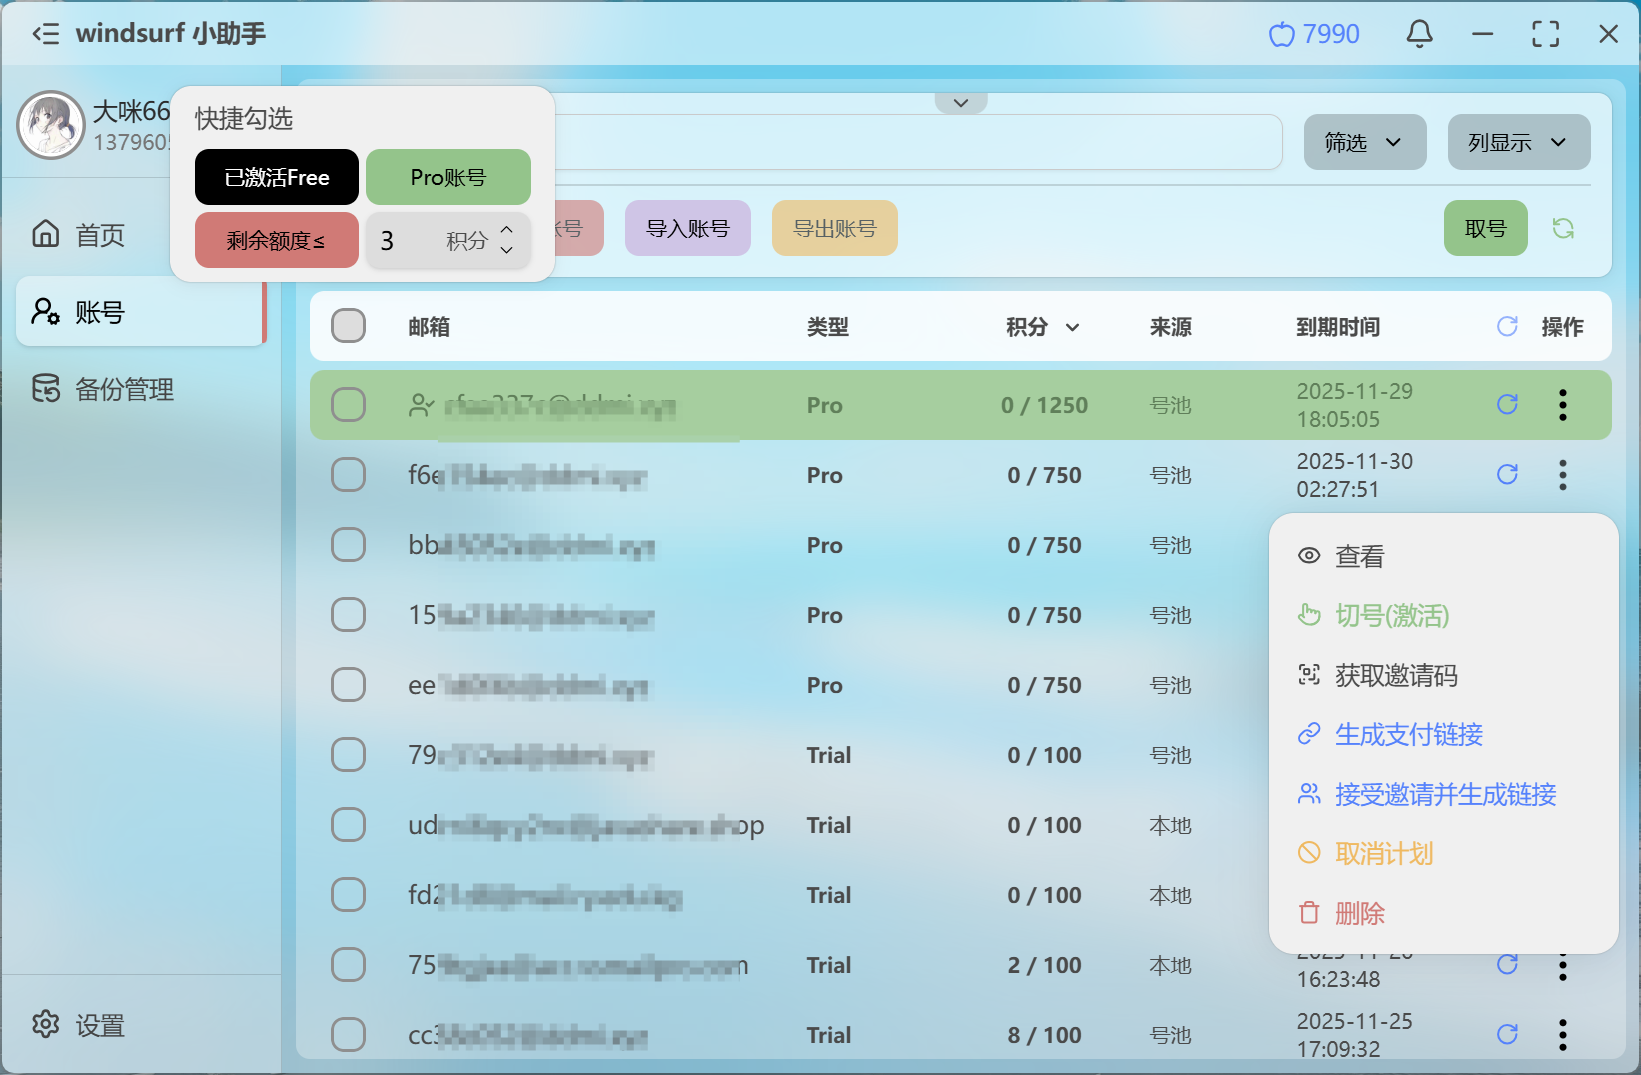
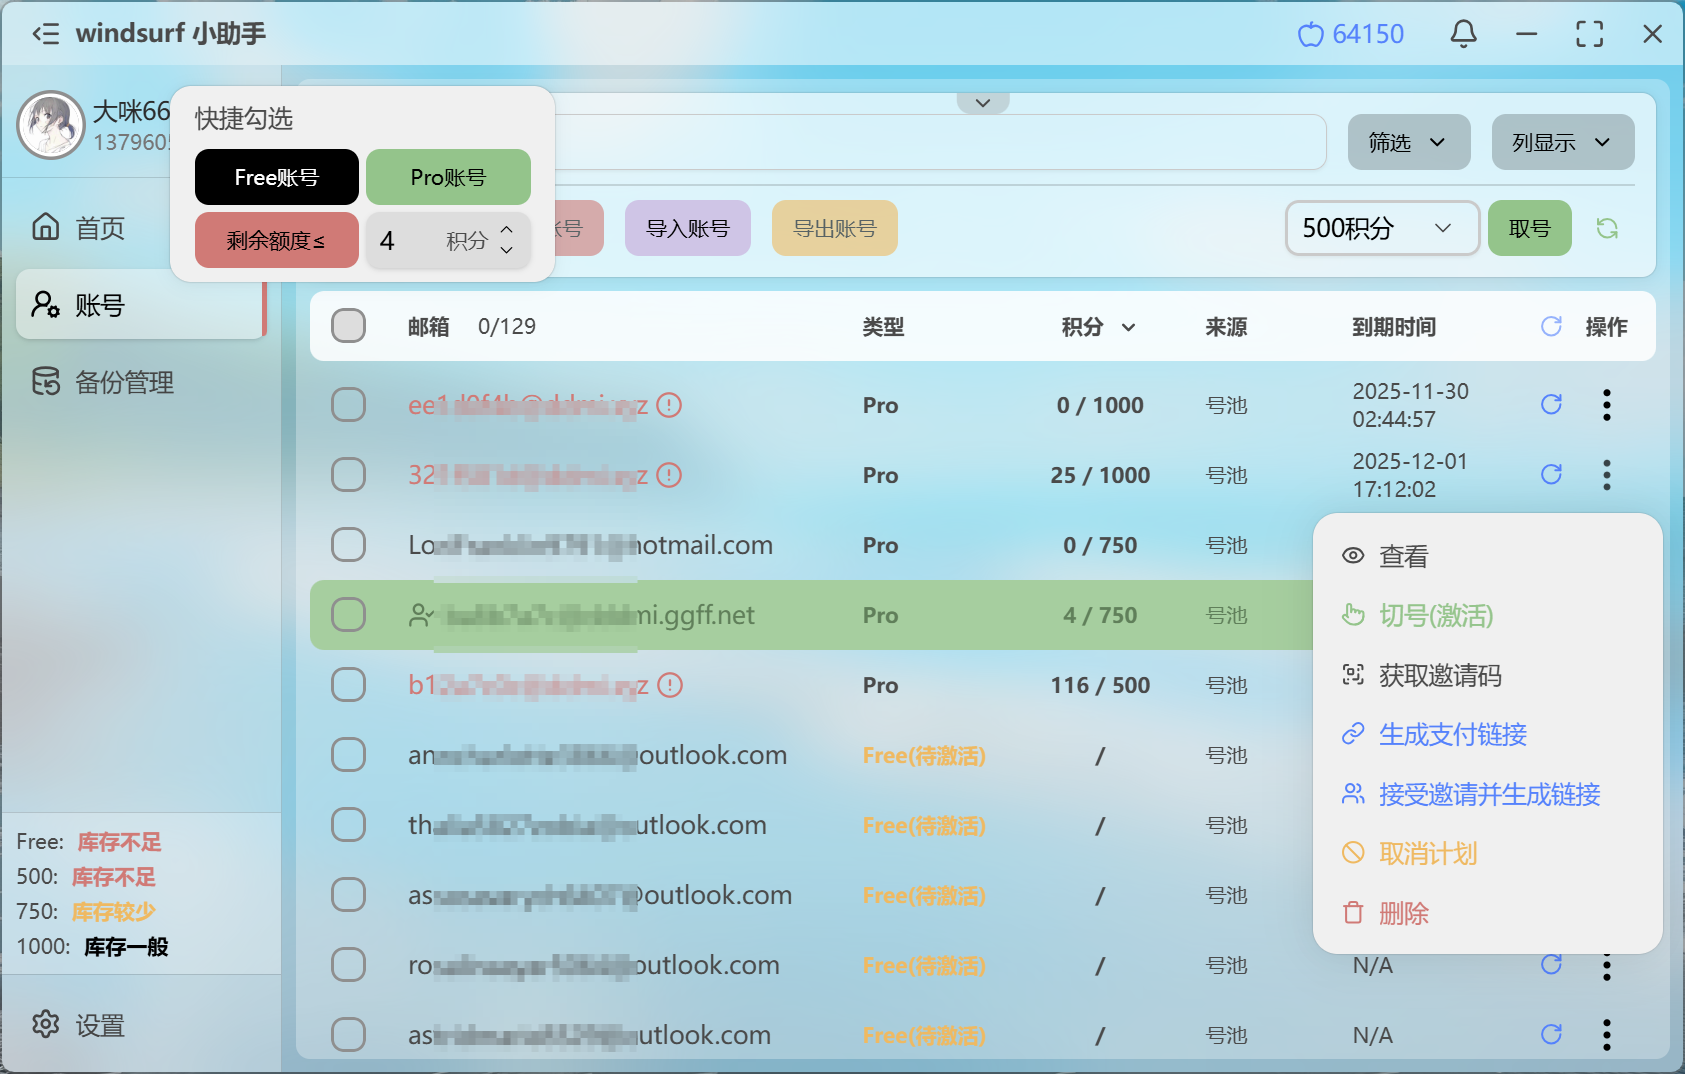
README.md

diff --git a/README.md b/README.md
@@ -6,7 +6,7 @@
 - 重置机器码
 - 恢复机器码
 - 账号按来源归类(本地/号池), 不登录也可添加账号使用
-- 号池取号
+- 号池取号(支持取 Free/500/750/1000 积分账号)
 - 3 种添加账号方式(账号密码、刷新令牌、apiKey)
 - 自动合并账号数据
 - 账号数据变化时自动同步至云端
@@ -22,6 +22,7 @@
 - 支付链接生成(新)
 - 一键接受邀请(新)
 - 取消计划(新)
+- 封号检测(新)
 - 自动更新
 - 公告通知
 - 卡密充值
